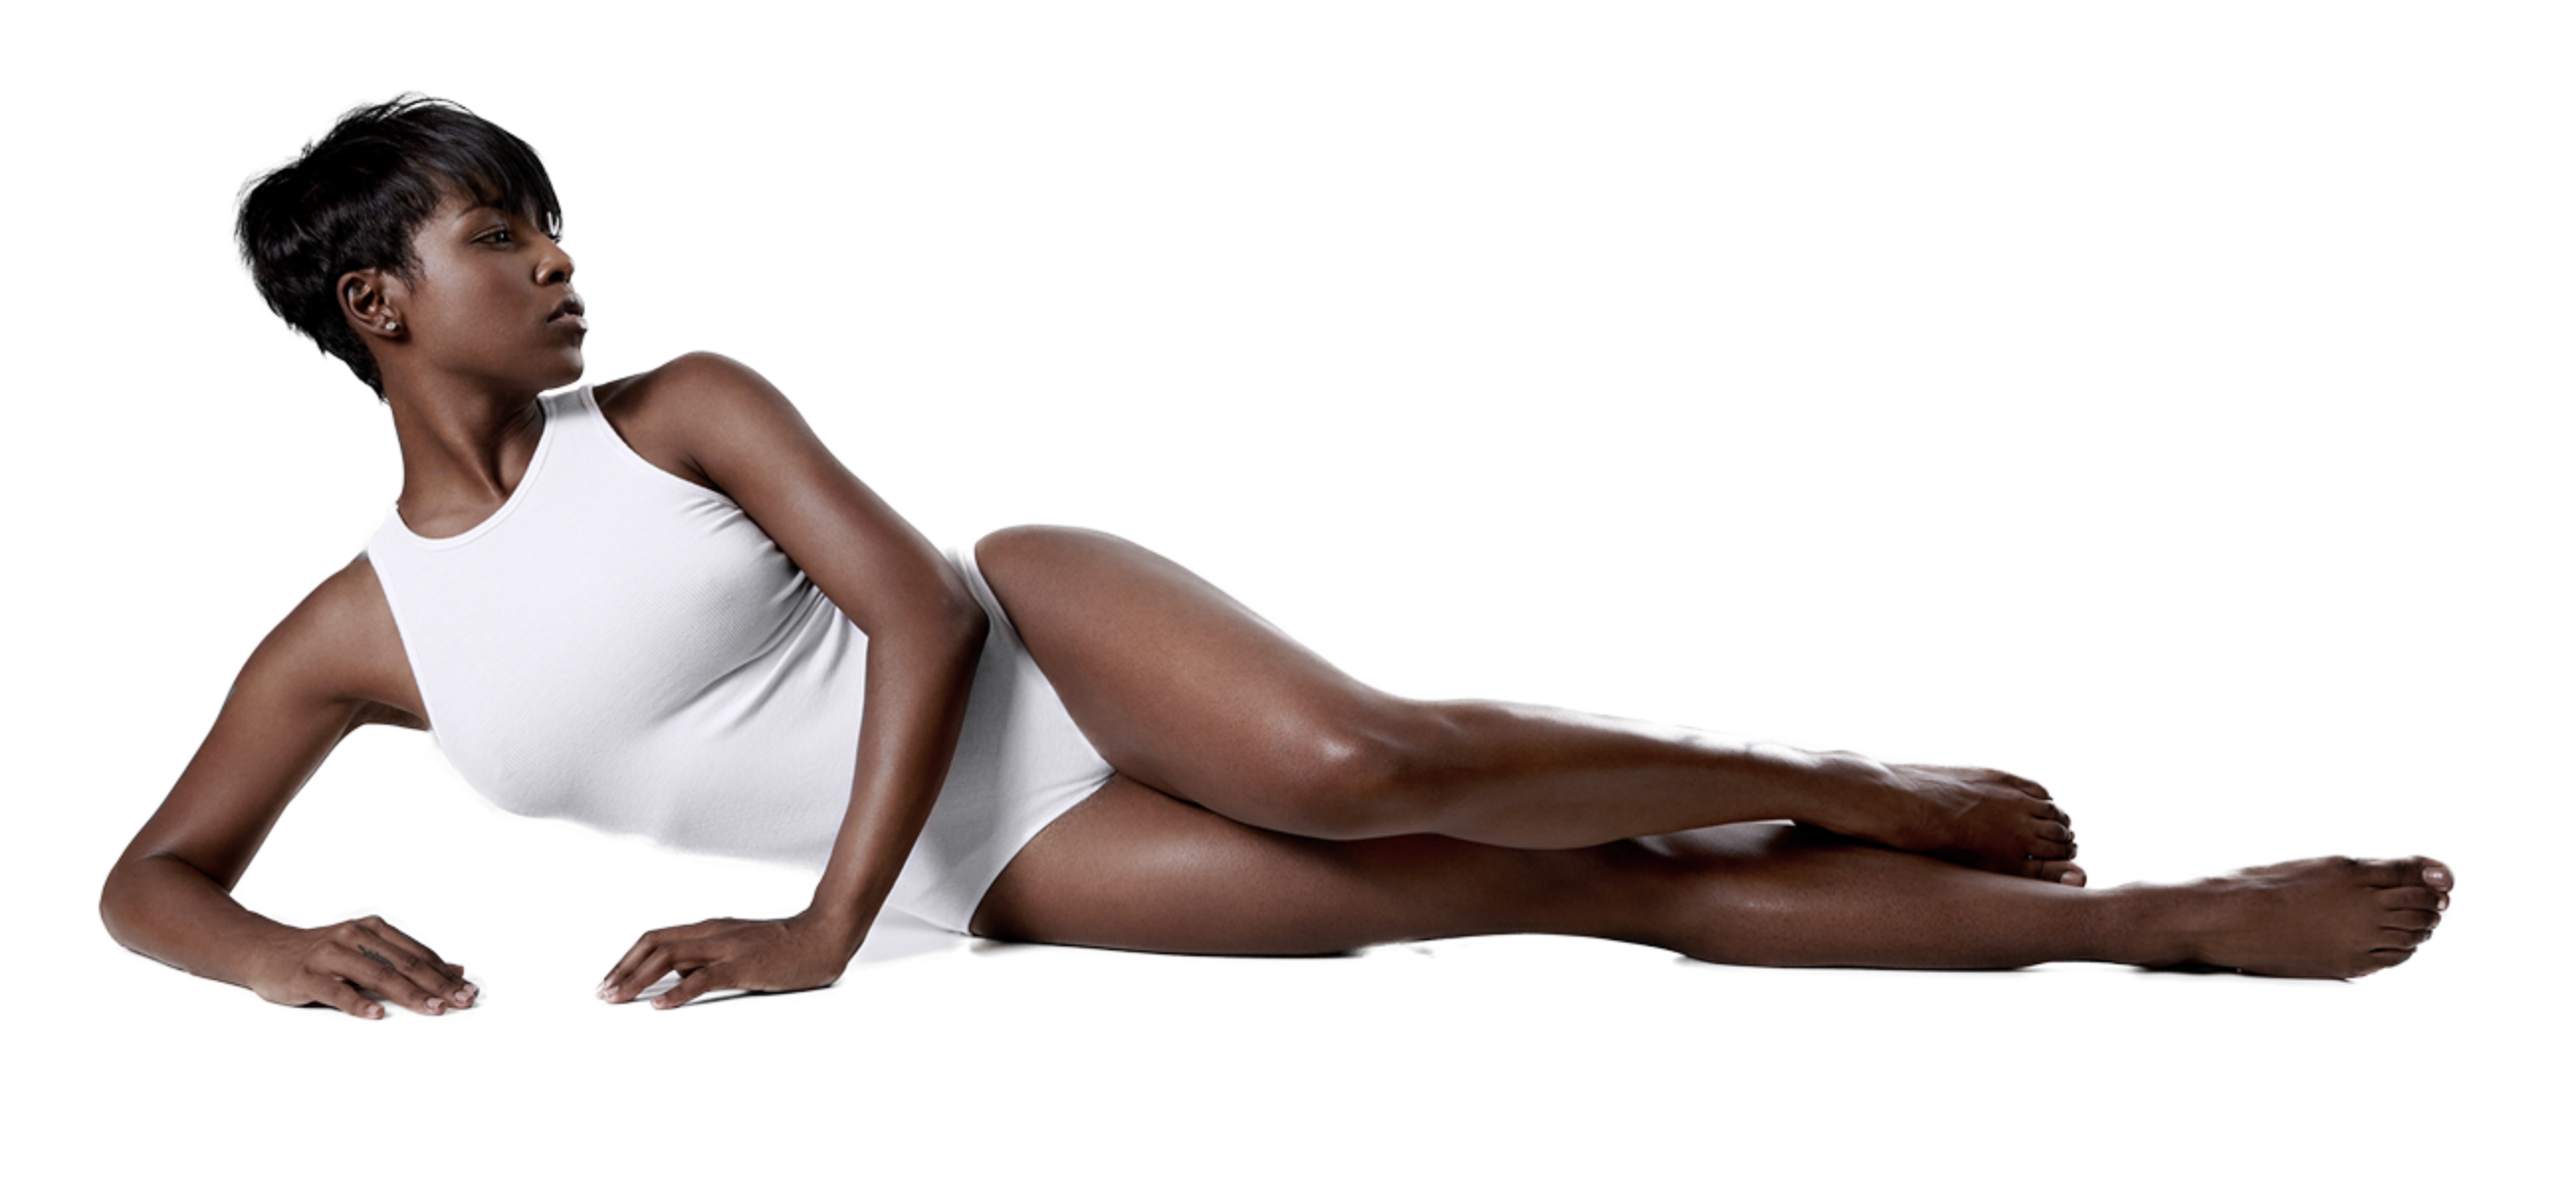
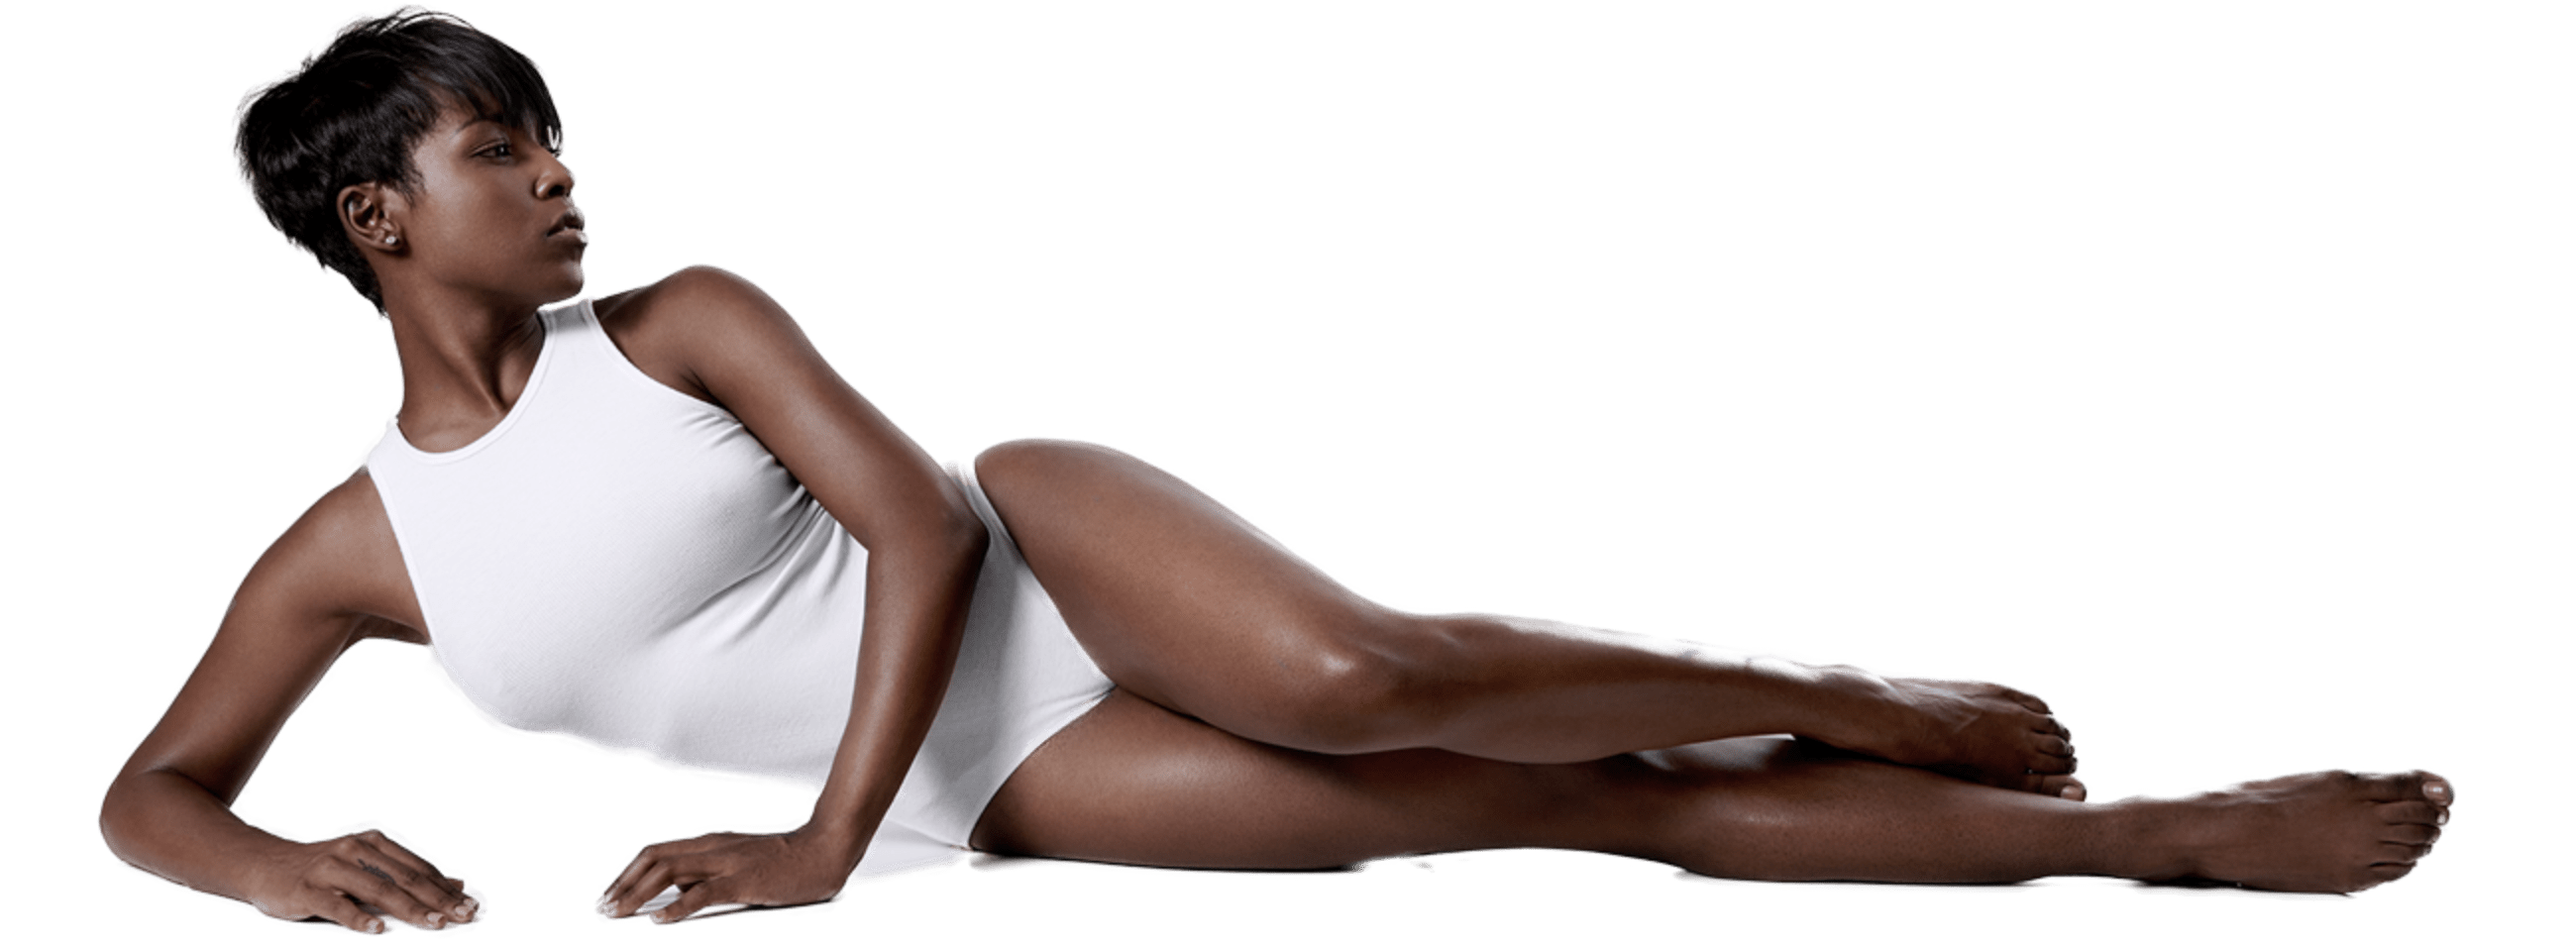
coolsculpting section complete

Changed region(s): [[0.0312, 0.3633, 0.9658, 0.999], [0.0935, 0.0, 0.3115, 0.333]]

diff --git a/css/theme.min.css b/css/theme.min.css
@@ -485,6 +485,21 @@ section {
       margin-bottom: 2rem; }
 
 /* -------------------------------------------------------------------------- */
+/* COOLSCULPTING SECTION */
+/* -------------------------------------------------------------------------- */
+.coolsculpting {
+  background: url("../../img/coolsculpting-bg@2x.jpg") center/cover;
+  padding: 40px 20px; }
+  .coolsculpting .containerish {
+    display: flex;
+    flex-direction: column;
+    align-items: flex-start;
+    justify-content: center; }
+    .coolsculpting .containerish .section-info {
+      max-width: 780px;
+      text-align: center; }
+
+/* -------------------------------------------------------------------------- */
 /* SEARCH SECTION */
 /* -------------------------------------------------------------------------- */
 .search {
@@ -1049,6 +1064,24 @@ img {
         align-self: center;
         justify-self: center;
         opacity: 0.5; }
+  /* COOLSCULPTING ************************************************ */
+  .coolsculpting {
+    padding: 40px 20px;
+    overflow: visible !important; }
+    .coolsculpting .containerish {
+      display: flex;
+      align-items: flex-start;
+      justify-content: flex-start;
+      position: relative;
+      height: 400px; }
+      .coolsculpting .containerish img {
+        position: absolute;
+        height: 250px;
+        width: auto;
+        bottom: -100px;
+        left: 50%;
+        transform: translateX(-50%);
+        z-index: 24; }
   /* SEARCH ******************************************************* */
   .search {
     background: #fff;
@@ -1239,6 +1272,24 @@ img {
     background: url("../../img/hero-3@2x.jpg") center/cover; }
   .hero .slide-4 {
     background: url("../../img/hero-4@2x.jpg") center/cover; }
+  /* COOLSCULPTING ************************************************ */
+  .coolsculpting {
+    padding: 40px 20px;
+    overflow: visible !important; }
+    .coolsculpting .containerish {
+      display: flex;
+      align-items: center;
+      justify-content: flex-start;
+      position: relative;
+      height: 450px; }
+      .coolsculpting .containerish img {
+        position: absolute;
+        height: 350px;
+        width: auto;
+        bottom: -150px;
+        left: 50%;
+        transform: translateX(-50%);
+        z-index: 24; }
   /* SEARCH ******************************************************* */
   .search {
     background: #fff;

diff --git a/scss/partials/_responsive.scss b/scss/partials/_responsive.scss
@@ -169,6 +169,28 @@
       }
     }
   }
+  /* COOLSCULPTING ************************************************ */
+  .coolsculpting {
+    padding: 40px 20px;
+    overflow: visible !important;
+    .containerish {
+      display: flex;
+      align-items: flex-start;
+      justify-content: flex-start;
+      position: relative;
+      height: 400px;
+
+      img {
+        position: absolute;
+        height: 250px;
+        width: auto;
+        bottom: -100px;
+        left: 50%;
+        transform: translateX(-50%);
+        z-index: 24;
+      }
+    }
+  }
   /* SEARCH ******************************************************* */
   .search {
     background: $color-white;
@@ -441,6 +463,28 @@
     }
     .slide-4 {
       background: url("../../img/hero-4@2x.jpg") center / cover;
+    }
+  }
+  /* COOLSCULPTING ************************************************ */
+  .coolsculpting {
+    padding: 40px 20px;
+    overflow: visible !important;
+    .containerish {
+      display: flex;
+      align-items: center;
+      justify-content: flex-start;
+      position: relative;
+      height: 450px;
+
+      img {
+        position: absolute;
+        height: 350px;
+        width: auto;
+        bottom: -150px;
+        left: 50%;
+        transform: translateX(-50%);
+        z-index: 24;
+      }
     }
   }
   /* SEARCH ******************************************************* */

diff --git a/index.html b/index.html
@@ -288,6 +288,29 @@
       </section>
       <!-- /locations -->
 
+      <!-- coolsculpting -->
+      <section class="coolsculpting">
+        <div class="containerish">
+          <div class="section-info">
+            <h2 class="color-main">
+              CoolSculpting
+            </h2>
+            <p class="lead-copy color-dark-accent">
+              Description of CoolSculpting dolor sit amet, consetetur sadipscing elitr, sed diam nonumy eirmod tempor invidunt ut
+              labore et dolore magna aliquyam erat, sed diam voluptua. At vero eos et accusam et justo duo dolores et ea rebum. Stet
+              clita kasd gubergren, no sea takimata sanctus est Lorem ipsum dolor sit amet. Lorem ipsum dolor sit amet, vero eos et
+              justo consetetur.
+            </p>
+            <div class="ui-btn-group">
+              <a href="#" class="ui-btn ui-btn-main">LEARN MORE</a>
+              <a href="#" class="ui-btn ui-btn-light-accent">REQUEST APPOINTMENT</a>
+            </div>
+          </div>
+          <img src="img/woman-horiz@2x.png" class="d-none d-md-block" alt="">
+        </div>
+      </section>
+      <!-- /coolsculpting -->
+
       <!-- search -->
       <section class="search">
         <form class="containerish">

diff --git a/scss/partials/_sections.scss b/scss/partials/_sections.scss
@@ -101,6 +101,25 @@ section {
   }
 }
 /* -------------------------------------------------------------------------- */
+/* COOLSCULPTING SECTION */
+/* -------------------------------------------------------------------------- */
+.coolsculpting {
+  // background: #e8e6f4;
+  background: url("../../img/coolsculpting-bg@2x.jpg") center / cover;
+  padding: 40px 20px;
+  .containerish {
+    display: flex;
+    flex-direction: column;
+    align-items: flex-start;
+    justify-content: center;
+
+    .section-info {
+      max-width: 780px;
+      text-align: center;
+    }
+  }
+}
+/* -------------------------------------------------------------------------- */
 /* SEARCH SECTION */
 /* -------------------------------------------------------------------------- */
 .search {
